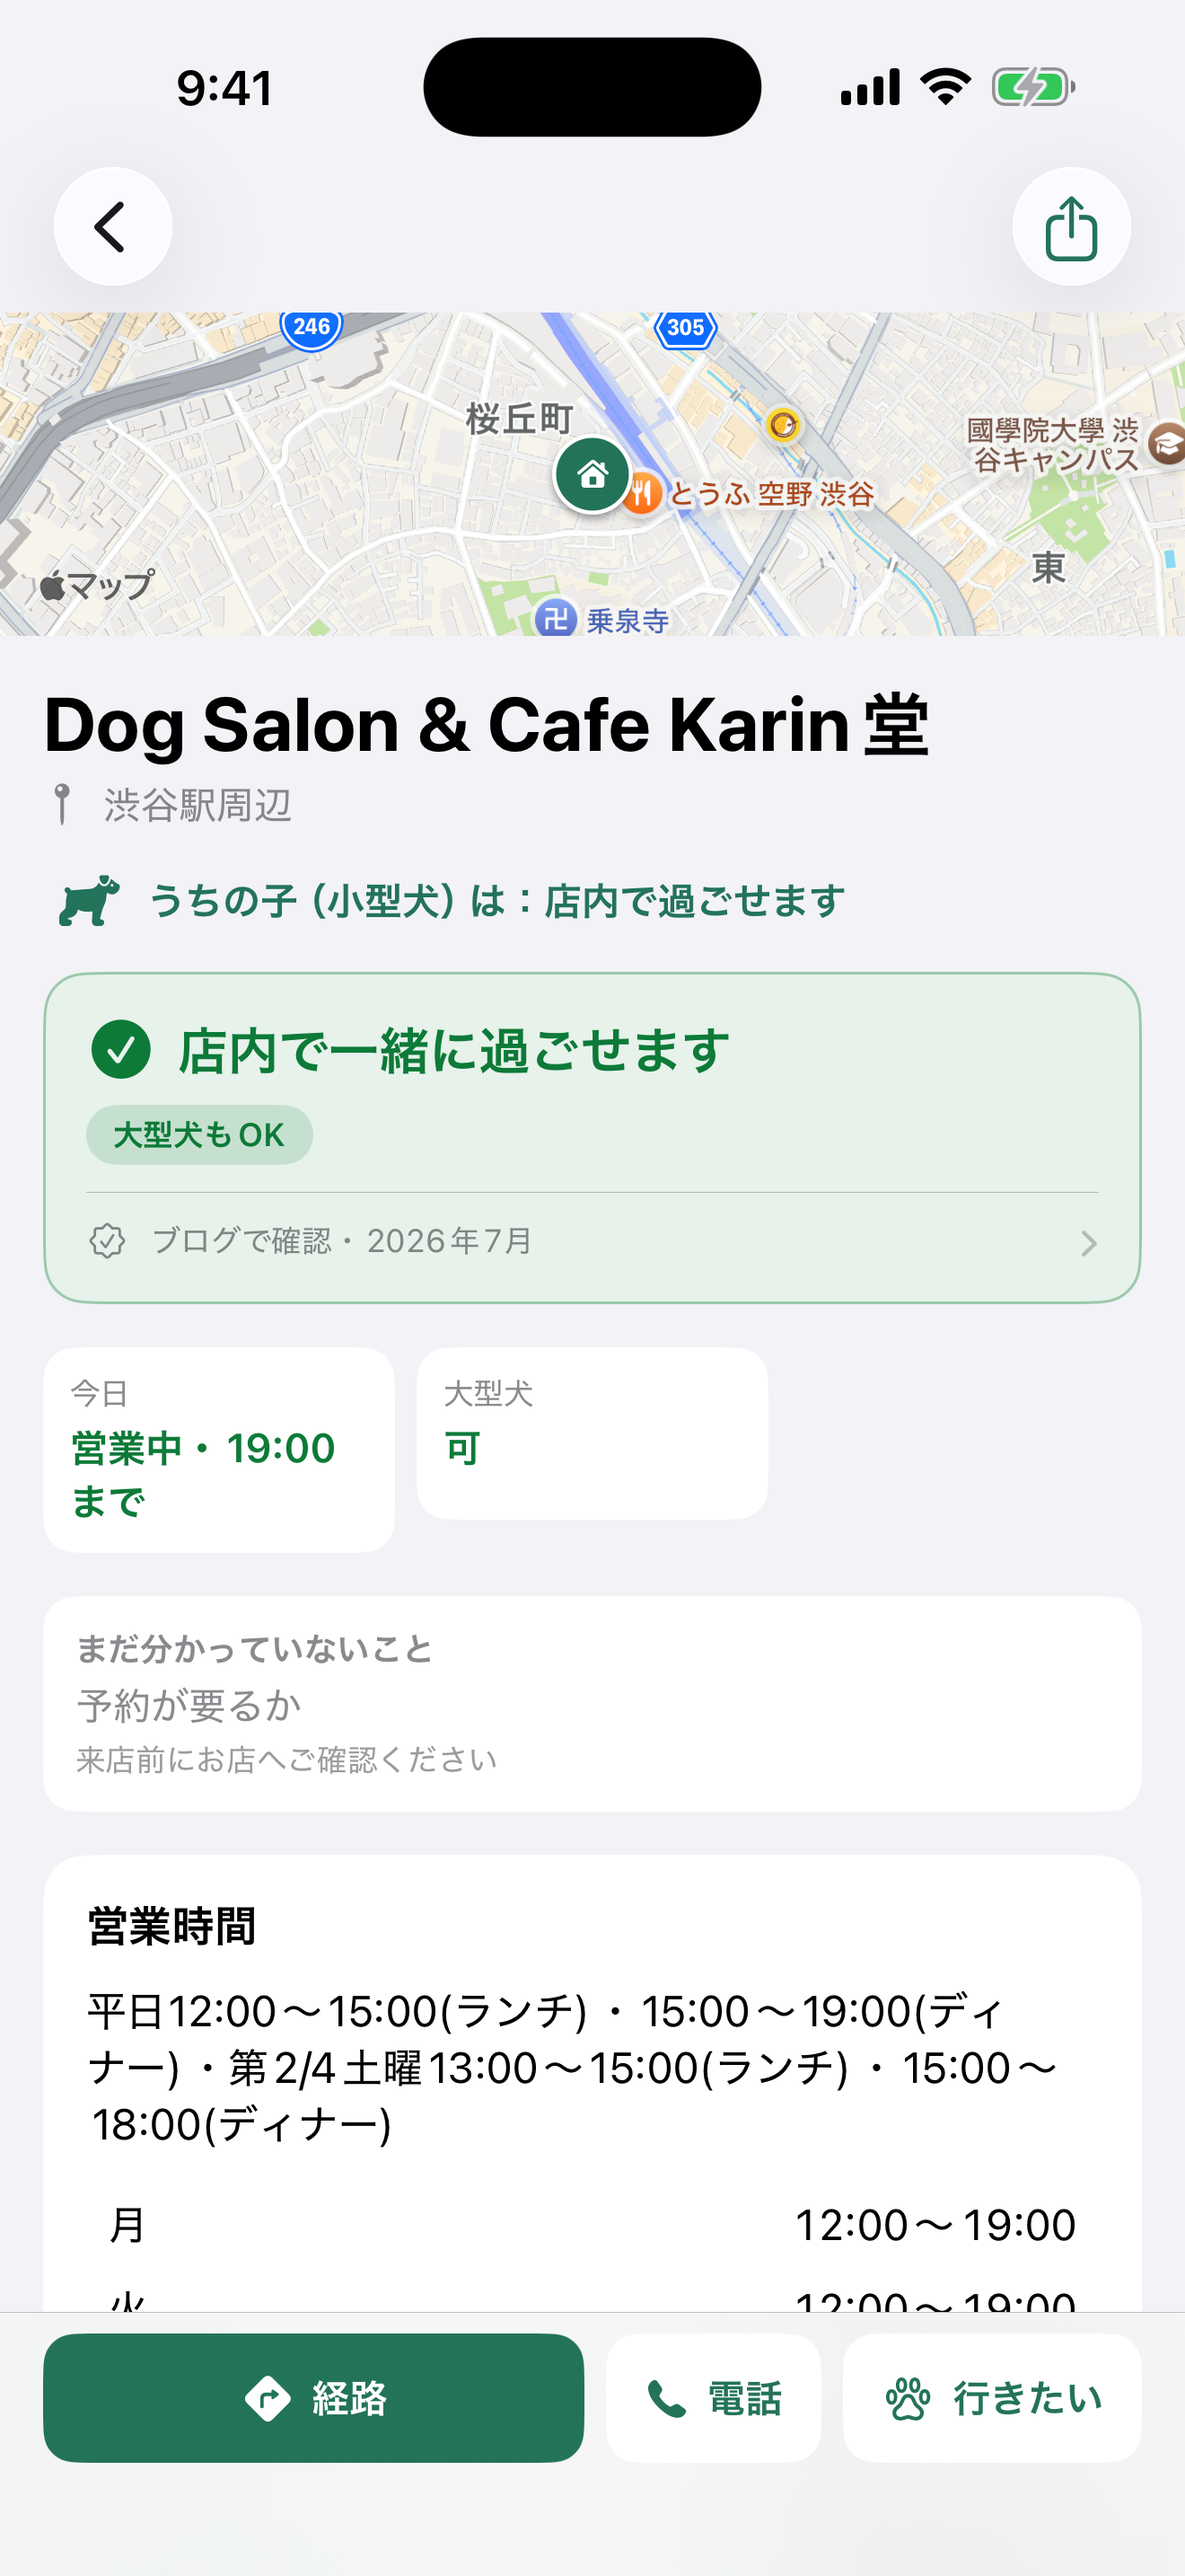
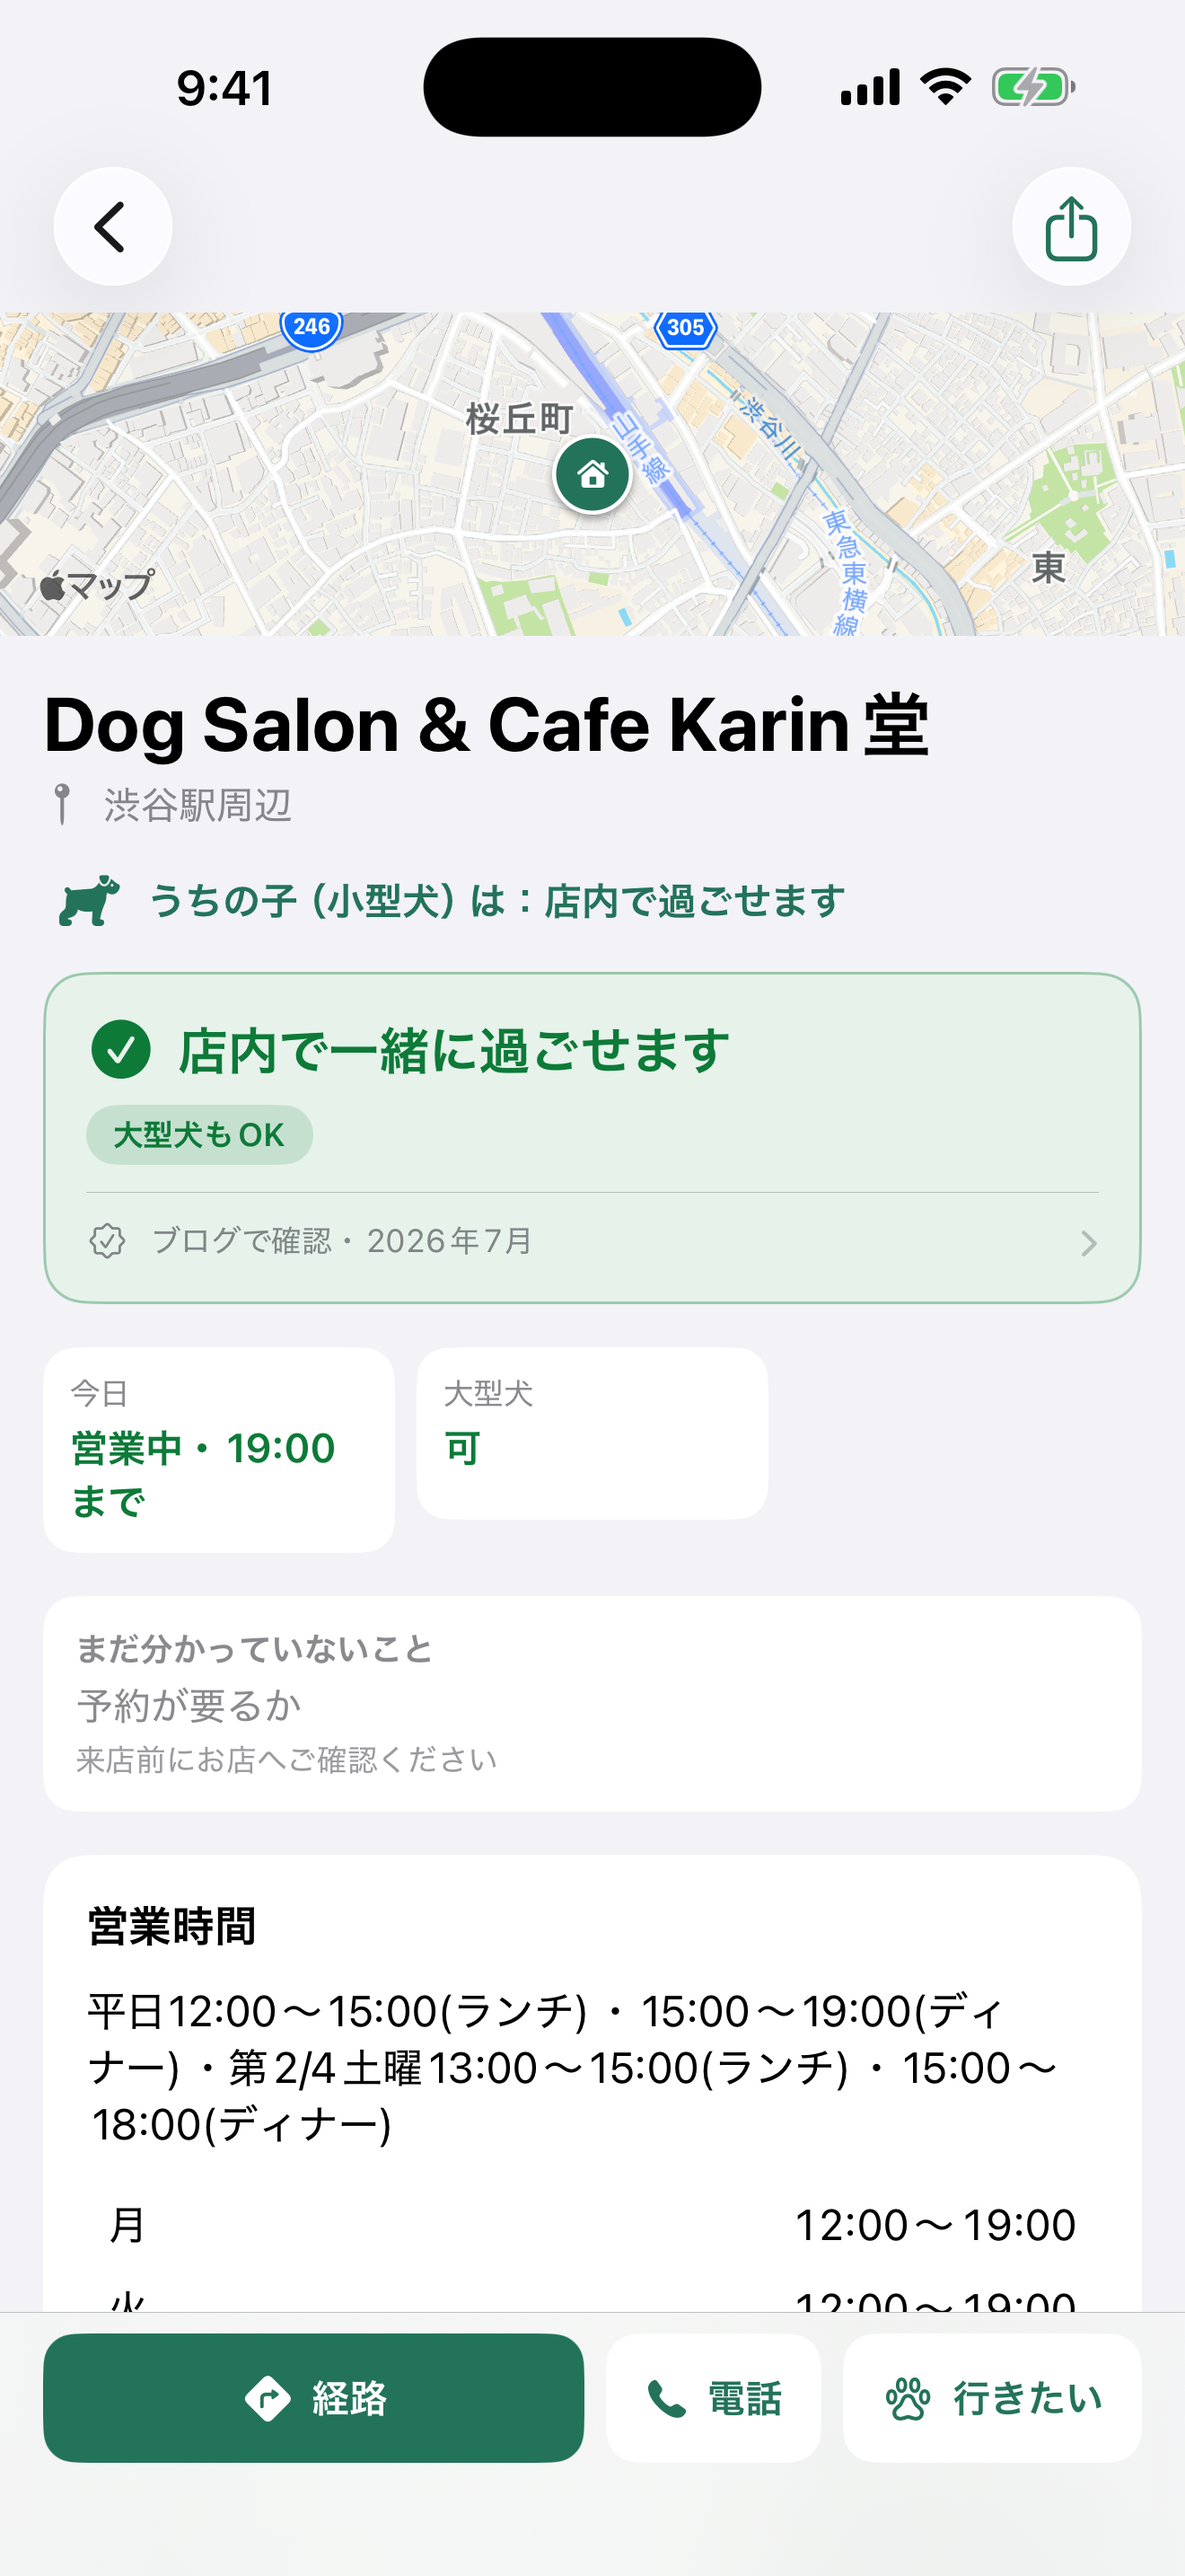
docs: 詳細が写るスクリーンショットを main f33dd54 で撮り直し
詳細の先頭の小さな地図から他の施設の名前・アイコンが消えた版に合わせ、
03_dog・04_evidence と README の detail.png を差し替え。ほかの画像は表示が変わっていないことを確認。

Claude-Session: https://claude.ai/code/session_019zkcAEuFg4zVZq5VyKun4C

Changed region(s): [[0.4348, 0.1552, 0.5902, 0.2483], [0.8076, 0.1552, 1.0, 0.1862], [0.6212, 0.1552, 0.7455, 0.2483]]

diff --git a/docs/appstore/screenshots.md b/docs/appstore/screenshots.md
@@ -60,6 +60,8 @@ xcrun simctl status_bar booted clear
 
 ## 撮影の記録（2026-11-13）
 
+- 対象のコミット: main = `f33dd54`（PR #62 反映後。詳細の先頭の小さな地図から他の施設の名前・アイコンが消えた版）。`03_dog.png`・`04_evidence.png`・README の `detail.png` はこの版で撮り直し、地図の帯に他の施設の名前・アイコンが写っていないことを確認済み。`01`・`02`・`05`・README の `home.png`・`onboarding.png` はこの版で撮り直して見比べ、表示が変わっていなかった（現在地の青い点の脈動以外の差なし）ため、そのまま使っている。
+
 - 機種: iPhone 17 Pro Max シミュレータ（1320 × 2868 px）。ステータスバー 9:41・満充電・Wi-Fi/電波満・ライト・文字サイズ large・位置は渋谷（35.6595, 139.7005）・位置情報は許可済み。うちの子は「小型犬」に設定。本番の `cafes.json`（859件・サンプルバナーなし）。
 - 営業の基準時刻: 実時刻（朝）では営業中の店が並ばないため、撮影用の作業コピーで**「今」を 2026-11-13（金）13:00 に固定**して撮影（アプリが時刻を読む入口だけ差し替え。表示を描くコードは本番と同じ）。ステータスバーは 9:41 のまま。場面2は固定した「今」から見た翌日の土曜 12:00。
 - 写真: 作業コピーで**写真プレビューの取得を無効化**（初回起動で写真がまだ無い状態と同じ。一覧・カードは絵柄のタイル）。実在店の外観写真・Instagram 埋め込みは写っていない。
